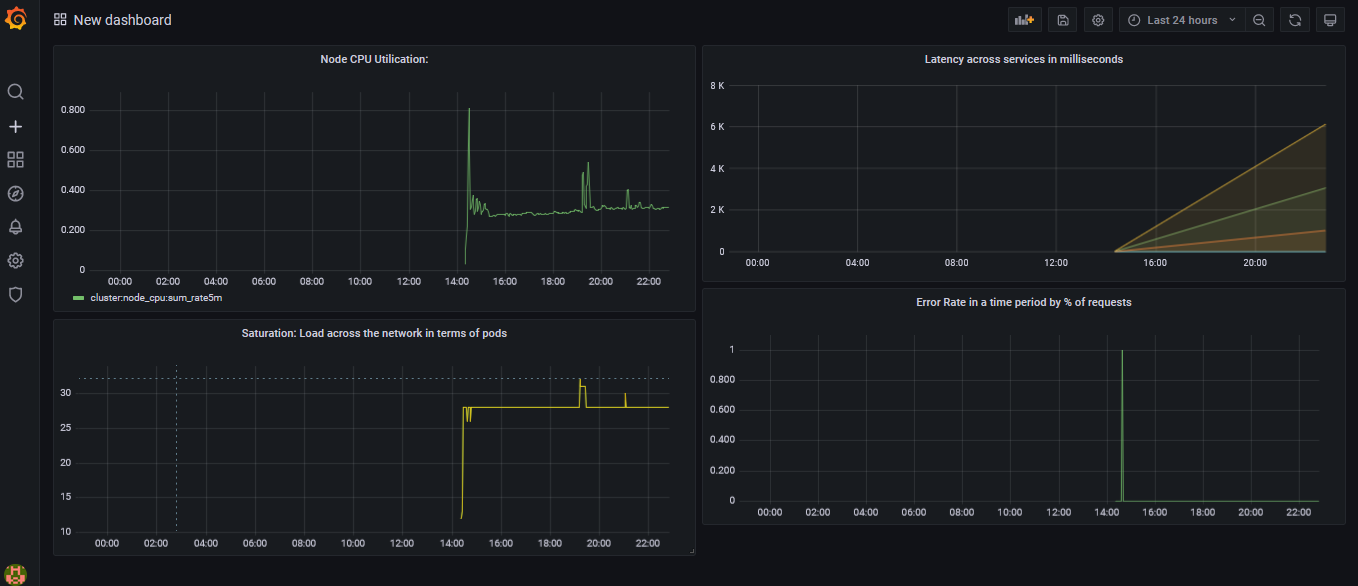
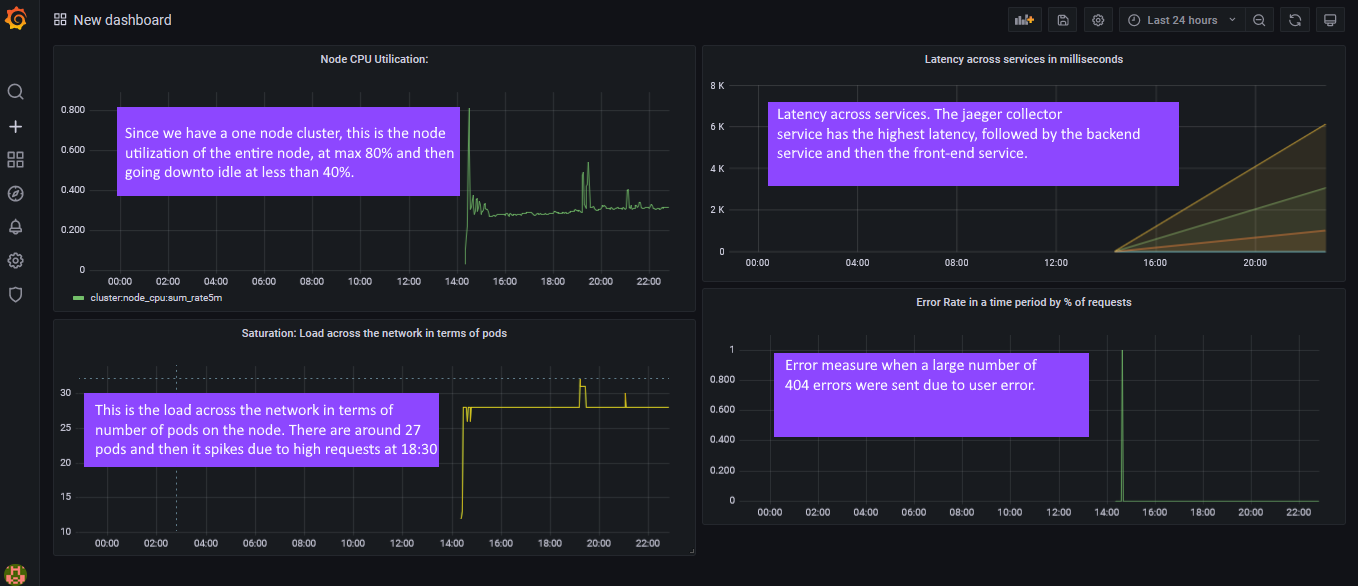
f

diff --git a/README.md b/README.md
@@ -83,12 +83,22 @@ The Backend API is geeting a lot of 404 errors due to user error. The file corre
 
 ## Building KPIs for our plan
 
-
-- Node resource utilization: IO, Memory, and CPU usage across each node.
-- Latency: Latency of the response across services.
-- Error rate: Error rate across the clusters.
-- Saturation: Saturation of resources across the network in terms of number of pods.
-
+- Monitoring of CPU utilization and error rates during deployments, for developing a profile of the system.
+  - Why: So that we can later provision higher resources in advance, minimizing downtime.
+- Total resource utilization (CPU) is always below a threshold less than 0.75, or 75%.
+  - Why: This gives us a buffer of 25% before we need to face downtime due to unavailability of resources.
+- Reduce latency of key services to 100ms max response times from 1000ms.
+  - Why: Refactoring our most latency prone services will decrease the amount of latency throughout the clusters, and improves the overall health of the system.
+- Adding a caching solution infront of all services that have latency higher than 50ms.
+  - Why: This immediately improves response time, since quick retireval of response from a cache gurantees a faster turnaround time.
+- During high traffic, error rate remains less than 1%.
+  - Why: If we can manage a less than 1% error rate even under heavy traffic conditions by provisioning more resources automatically, we can potentially reduce overall downtime to less than 1%. Heavy load can also cause saturation, which also reduces uptime.
+- High traffic doesn't cause network saturation.
+  - Why: Changing our architecture and applications to more gracefully support heavy traffic conditions will reduce spending on infrastructure during peak hours, where most of the dynamic cost comes from.
+- Saturation (pods/node) is less than 50% capacity of the node during normal hours and max 90% of the capacity during peak hours.
+  - Why: Refactoring the applications to handle traffic better, using caching solutions, and improving the architecture will reduce saturation, and therefore downtime due to insufficient resources.
+- Reduction of 40X errors to less than 10% by the end of the month.
+  - Why: High rate of current 40X errors is probably due to user error. Improvements in user experience and investment in user interface design will improve usability and reduce user dissatisfaction. This will also prevent downtime due to too many errors overwhelming the system.
 
 
 ## Final Dashboard
